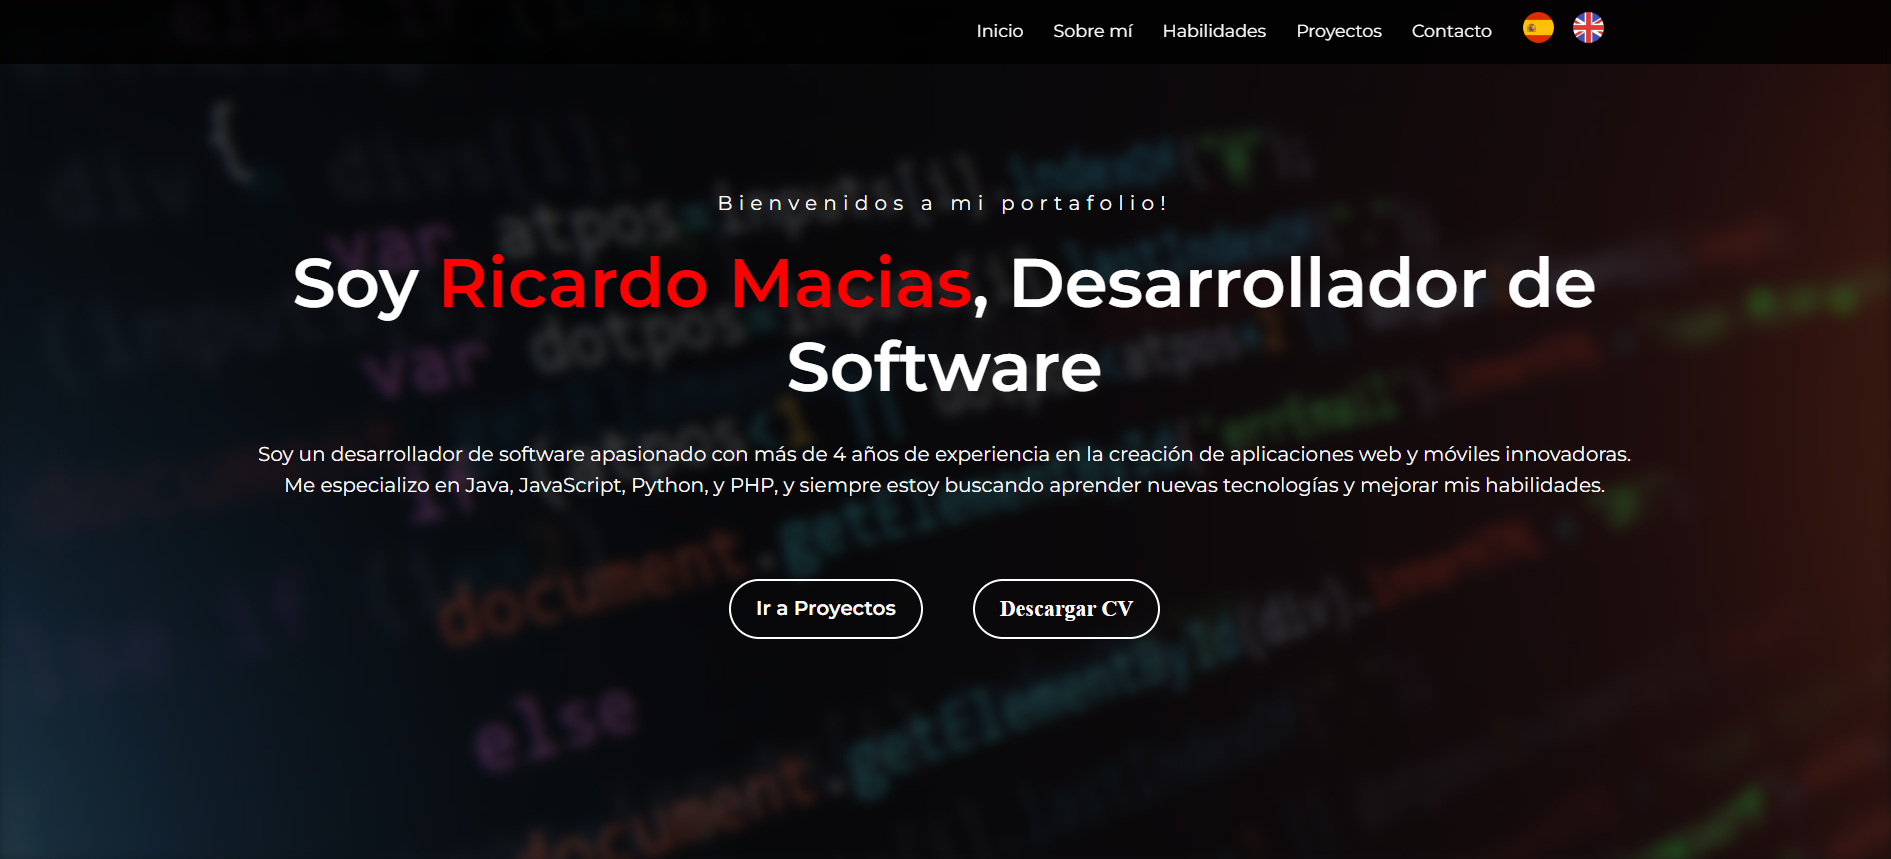
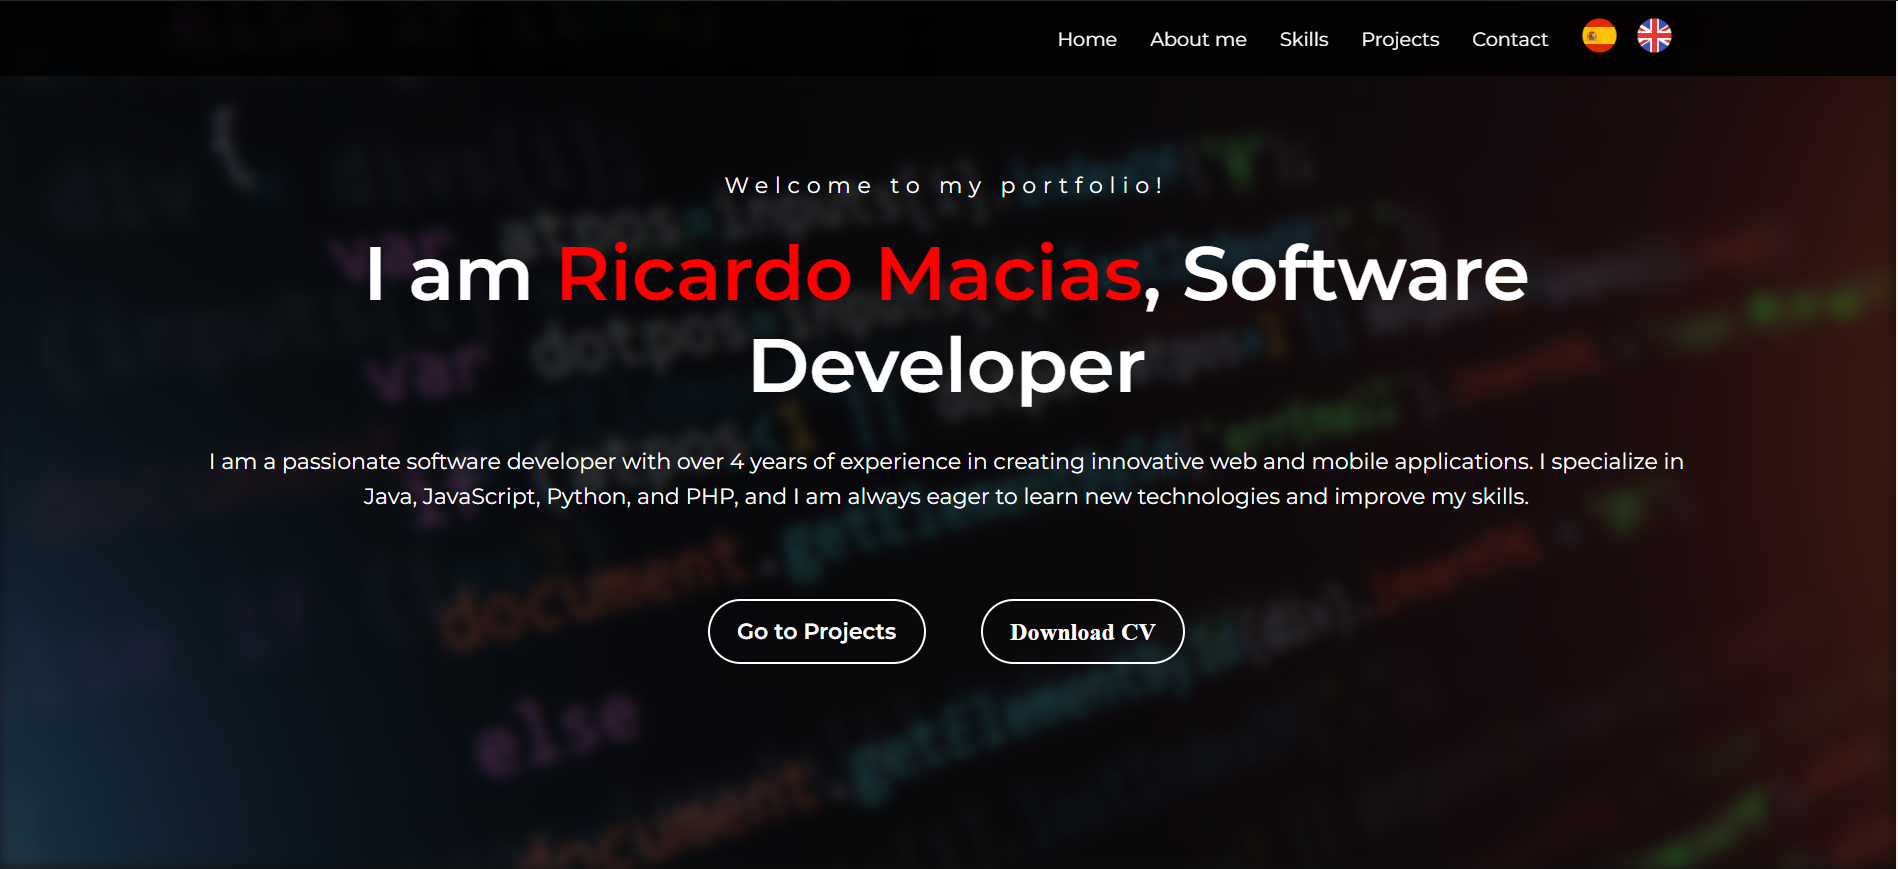
cambios

diff --git a/js/poortafolio.js b/js/poortafolio.js
@@ -99,8 +99,9 @@ window.addEventListener('DOMContentLoaded', (event) => {
  //========================================================== Cv cambia los cv si segun el idioma selecionado ===========================================================================
  document.addEventListener("DOMContentLoaded", function() {
     const btnCv = document.getElementById("btn_cv");
+    const titlePresentacion = document.getElementById("title_presentacion");
 
-    // URLs de los CVs ....
+    // URLs de los CVs
     const cvUrlEs = "https://drive.google.com/file/d/11QgH9SXJIw0RjI2SyhHDUzYBwqtvuMOV/view?usp=sharing"; // CV en español
     const cvUrlEn = "https://drive.google.com/file/d/16i-gZMj-Nt1Rp2lnTo7P3pahN5mQVV1_/view?usp=sharing"; // CV en inglés
 
@@ -113,17 +114,35 @@ window.addEventListener('DOMContentLoaded', (event) => {
         }
     }
 
+    // Función para cambiar solo el texto fuera del span
+    function changeTitle(language) {
+        const spanContent = titlePresentacion.querySelector("span").outerHTML;
+        let textContent = "";
+
+        if (language === "es") {
+            textContent = `Soy ${spanContent}, Desarrollador de Software`;
+        } else if (language === "en") {
+            textContent = `I am ${spanContent}, Software Developer`;
+        }
+
+        titlePresentacion.innerHTML = textContent;
+    }
+
     // Evento de cambio de idioma
     document.querySelectorAll('.flags__item').forEach(item => {
         item.addEventListener('click', function() {
             const selectedLanguage = this.getAttribute('data-language');
+            // Guardar el idioma seleccionado en localStorage
+            localStorage.setItem('language', selectedLanguage);
             changeCvLink(selectedLanguage);
+            changeTitle(selectedLanguage);
         });
     });
 
-    // Cambiar el enlace del CV cuando se cargue la página según el idioma actual
-    const currentLanguage = document.querySelector('.flags__item.active').getAttribute('data-language');
+    // Cambiar el enlace del CV y el texto del título cuando se cargue la página según el idioma actual
+    const currentLanguage = localStorage.getItem('language') || 'es'; // Obtiene el idioma actual o usa 'es' como predeterminado
     changeCvLink(currentLanguage);
+    changeTitle(currentLanguage);
 });
 
 

diff --git a/index.html b/index.html
@@ -67,7 +67,7 @@ https://cdn.jsdelivr.net/npm/sweetalert2@11.12.4/dist/sweetalert2.min.css
 
             <div class="presentacion">
                 <p id="title1" class="bienvenida">Bienvenidos a mi portafolio!</p>
-                <h2>Soy <span>Ricardo Macias</span>, Desarrollador de Software</h2>
+                <h2 id="title_presentacion">Soy <span>Ricardo Macias</span>, Desarrollador de Software</h2>
                 <p id="description1" class="descripcion">Soy un desarrollador de software apasionado con más de 4 años
                     de experiencia en
                     la creación
@@ -76,9 +76,7 @@ https://cdn.jsdelivr.net/npm/sweetalert2@11.12.4/dist/sweetalert2.min.css
                 <div class="botones">
                     <a class="ir_proyecto" href="#portafolio" id="btn_proyecto">Ir a Proyectos</a>
                     <a class="btn-cv" id="btn_cv" href="#" target="_blank">Descargar CV</a>
-
                 </div>
-
             </div>
         </div>
     </section>
